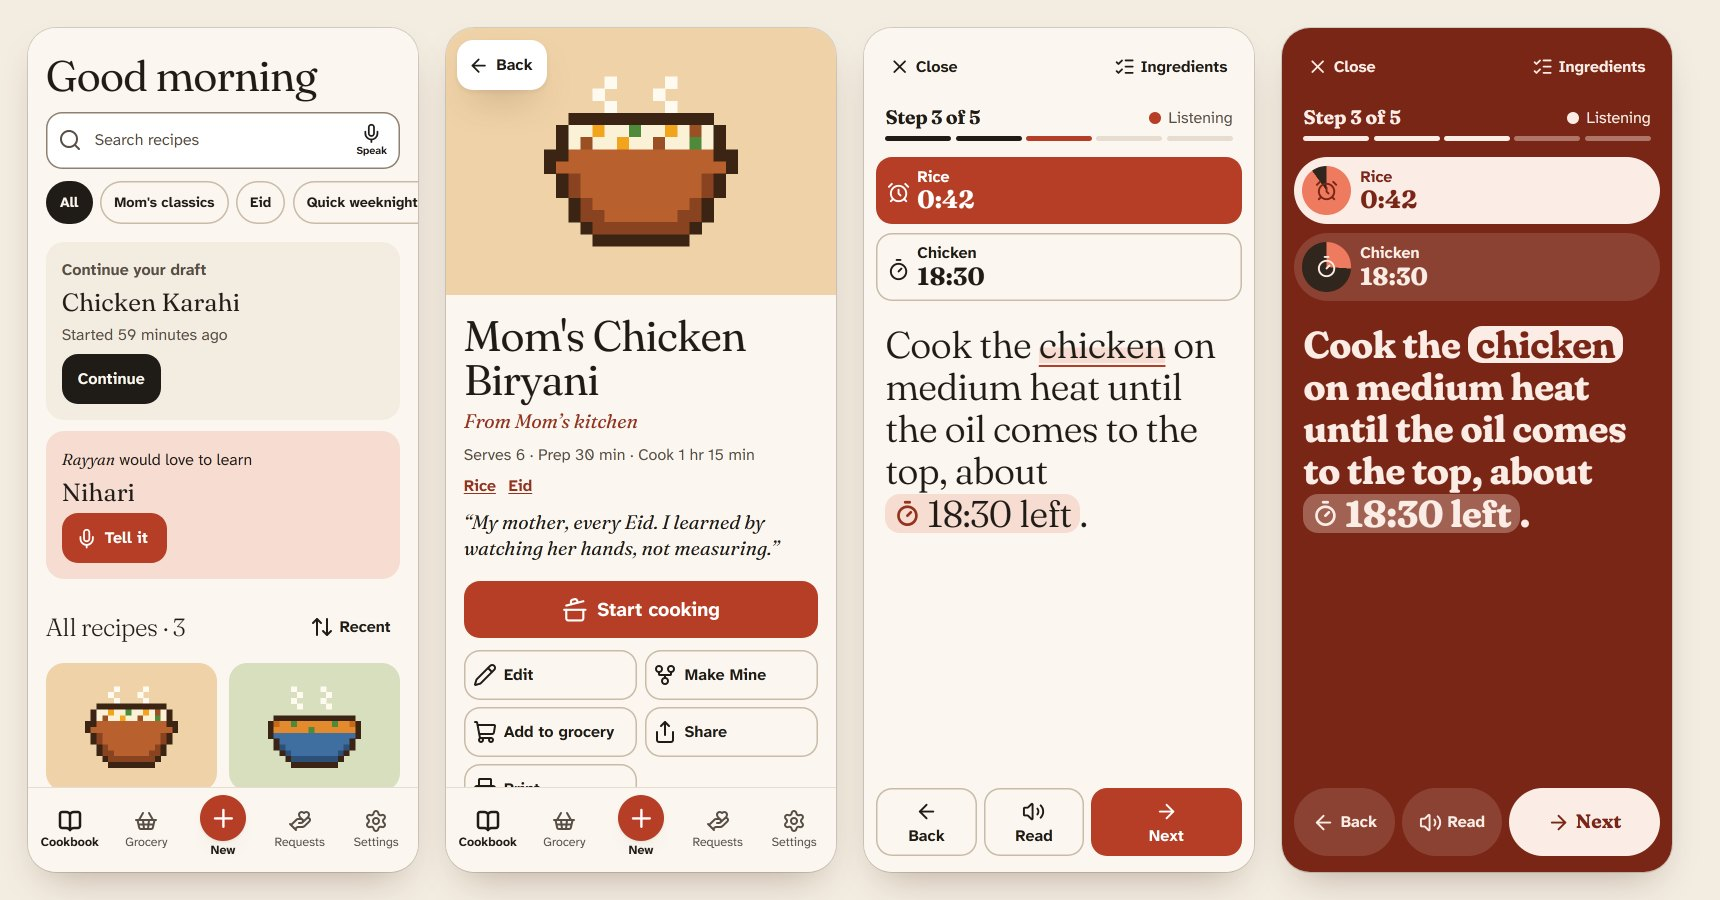
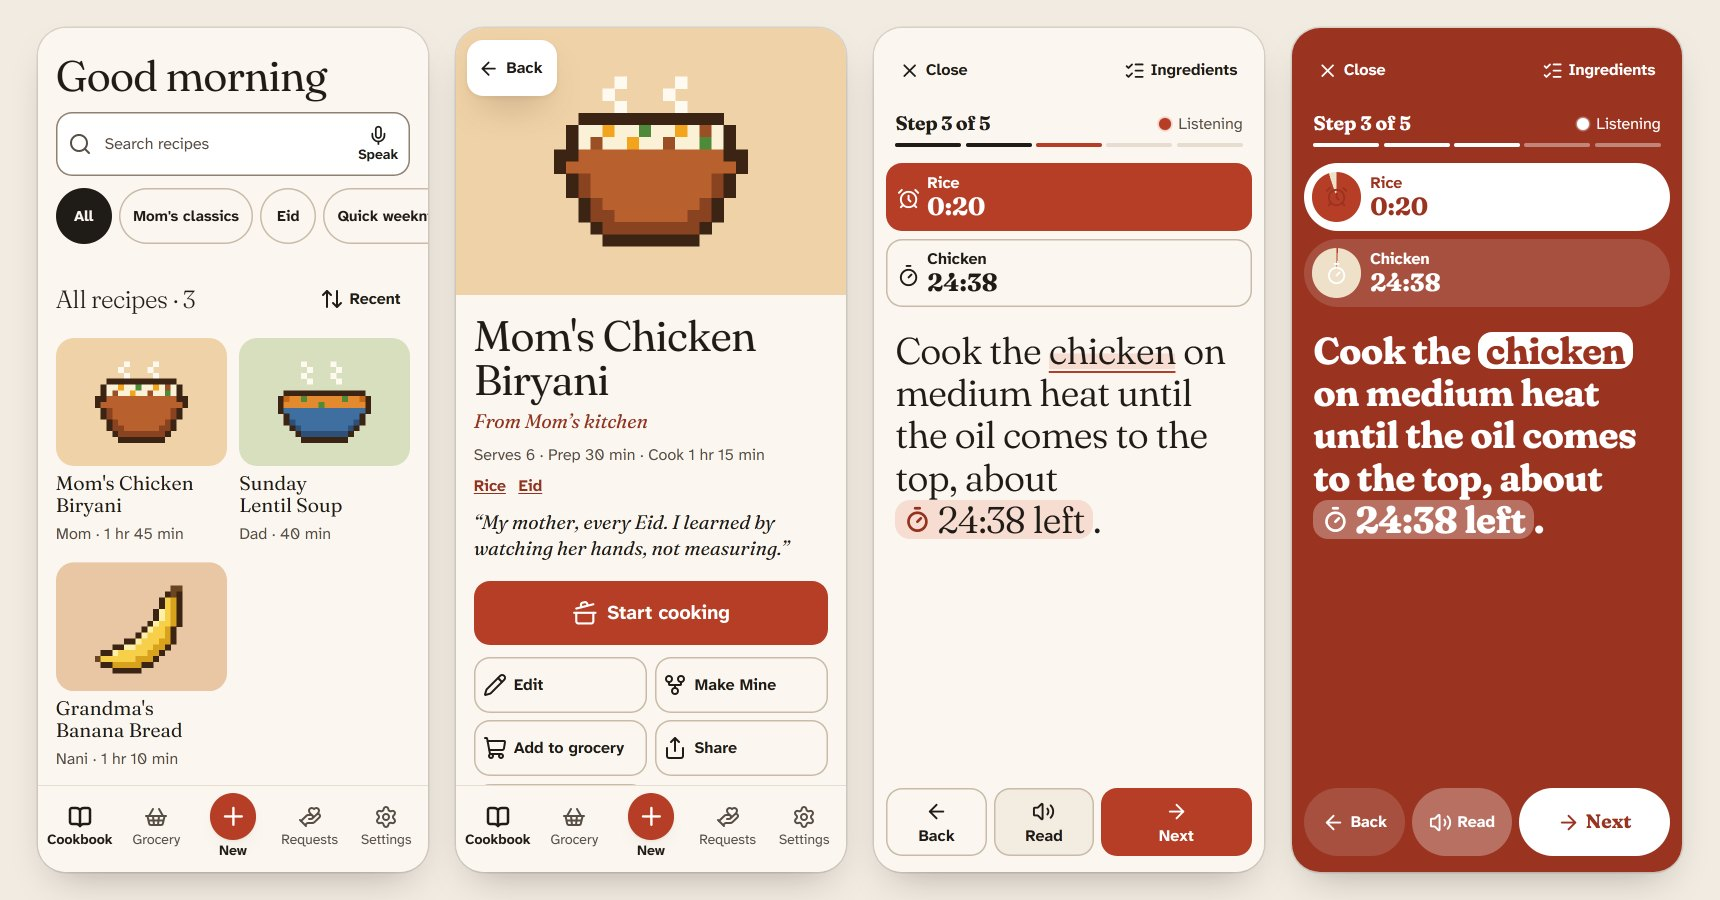
Refresh the README screenshots, add Tell it and cook mode GIFs, Lighthouse scores and a case-study outline

diff --git a/README.md b/README.md
@@ -9,7 +9,7 @@
 Save the recipes that only live in someone's head by saying them out loud,<br />
 then cook from them hands-free.
 
-[**Try it**](https://rvyyv-n.github.io/bookcook/) · [Roadmap](docs/roadmap.md) · [Design docs](docs/design/)
+[**Try it**](https://rvyyv-n.github.io/bookcook/) · [Roadmap](docs/roadmap.md) · [Design docs](docs/design/) · [Case study](docs/case-study.md)
 
 [![Check and deploy](https://github.com/rvyyv-n/bookcook/actions/workflows/deploy.yml/badge.svg)](https://github.com/rvyyv-n/bookcook/actions/workflows/deploy.yml)
 [![License: MIT](https://img.shields.io/badge/license-MIT-blue.svg)](LICENSE)
@@ -20,7 +20,7 @@ then cook from them hands-free.
 
 Bookcook is for the family cook who wears reading glasses and has busy hands: very large text, big targets, and voice for everything. Tell it a recipe the way you'd tell a friend, and it turns what you said into ingredients, steps and timers, keeping the story behind the dish in the teller's own voice.
 
-**[Open the app](https://rvyyv-n.github.io/bookcook/)** and tap _Try an example_ for three sample recipes. Install it from the browser menu to use it as an app, offline too. There's nothing to sign up for.
+**[Open the app](https://rvyyv-n.github.io/bookcook/)**, pick a text size on the welcome screen, and tap _Try an example_ for three sample recipes. Install it from the browser menu to use it as an app, offline too. There's nothing to sign up for.
 
 ## Contents
 
@@ -28,25 +28,35 @@ Bookcook is for the family cook who wears reading glasses and has busy hands: ve
 - [Privacy](#privacy)
 - [Browser support](#browser-support)
 - [How it's built](#how-its-built)
+- [Quality](#quality)
 - [Development](#development)
 - [Deployment](#deployment)
+- [Android app](#android-app)
 - [License](#license)
 
 ## Features
 
 ### Getting recipes in
 
+<img src="docs/images/tell-it.gif" alt="Tell it: a recipe told out loud. The name, whose it is and how many it feeds are answered, then each ingredient appears in the list as it's said" width="320" align="right" />
+
 - **Tell it.** A gentle interview, one question at a time: the name, whose recipe it is, how many it feeds, the ingredients, the steps, tips and the story behind it. Ingredients appear as you say them and durations become timers. Hands-free if you like.
 - **Just talk.** Talk while you cook; Bookcook sorts it into ingredients and steps for you to check, and keeps every word as "In her words".
 - **Type it, paste it or bring a link.** Type the way you'd say it (`2 cups basmati rice, washed`) with a live preview, paste messy text from WhatsApp or notes and have it tidied up, or import a recipe website's page.
 - **Check before saving.** Whichever way it came in, you check it on one screen, with anything the parser was unsure of marked. Drafts save as you go, and every text field has a Speak button.
 
+<br clear="right" />
+
 ### Cooking
+
+<img src="docs/images/cook-mode.gif" alt="Cook mode: stepping to the next step, starting its seven-minute timer from the step text, and the timer turning hot in its last minute" width="320" align="right" />
 
 - **Cook mode.** One step at a time, in type you can read from across the kitchen. Steps are read aloud, voice commands (next, back, repeat, timer, stop) move you along without touching the screen, and the screen stays awake.
 - **Timers.** Tap a duration in a step to start one. Several can run at once; a finished one chimes and speaks until you stop it, and they survive a reload.
 - **Ingredients that follow you.** Scale servings and switch metric or imperial, and every amount updates, including the one that pops up when you tap an ingredient in a step.
 - **I made it.** Rate it, note what to change next time, and add a photo to the cook log.
+
+<br clear="right" />
 
 ### Keeping and sharing
 
@@ -56,6 +66,7 @@ Bookcook is for the family cook who wears reading glasses and has busy hands: ve
 - **Share and back up.** Share a recipe as a link that adds it to someone else's cookbook. Back up everything, photos and voice notes included, to a `.bookcook` file, and restore it on any device.
 - **Print the family cookbook.** A cover, contents, one recipe per page and the stories behind them, on Letter or A4.
 - **Five looks.** Five skins, light and dark, two accents and three text sizes, up to Huge.
+- **A gentle start.** A three-step welcome sets the text size, shows what voice can do and asks for the microphone once, with plain help if it's blocked. It can be opened again from Settings.
 
 ![Cook mode on a tablet, with the ingredients pinned beside the step](docs/images/tablet.jpg)
 
@@ -80,7 +91,7 @@ Reading aloud works everywhere. Where voice input isn't available, Tell it and J
 
 ## How it's built
 
-React 19, TypeScript (strict), Vite, Tailwind CSS v4, React Aria Components and Dexie (IndexedDB), installable as a PWA. There's no AI and no paid service: a rule-based parser turns spoken and typed recipes into structured ones. It scores 100% on its tuned fixture corpus (`npm run parse:score`); the held-out set scored 72% before any tuning.
+React 19, TypeScript (strict), Vite, Tailwind CSS v4, React Aria Components and Dexie (IndexedDB), installable as a PWA. There's no AI and no paid service: a rule-based parser turns spoken and typed recipes into structured ones. It gets all 214 cases in its fixture corpus right (`npm run parse:score`), across typed, pasted and spoken ingredients, timers, voice commands and steps. The held-out set scored 72% before the parser was tuned on it.
 
 ```
 src/
@@ -111,6 +122,21 @@ scripts/        parser scoring, app icons, screenshot helper
 Tests sit next to the code they cover (`*.test.ts`).
 
 ![The desktop cookbook: sidebar, recipe list and the selected recipe](docs/images/desktop.jpg)
+
+## Quality
+
+**Accessibility.** Every screen is checked in all five skins, light and dark, at Normal and Huge text, on a phone and on a desktop, with an automated audit (axe) that finds no problems. Every target is at least 56px, every label at least 14px at Normal, and everything works from the keyboard with a visible focus ring. The full checklist is in [`ACCEPTANCE.md`](docs/design/ACCEPTANCE.md).
+
+**Lighthouse** on the live site (median of three runs, first visit):
+
+|         | Performance | Accessibility | Best practices | SEO |
+| ------- | ----------- | ------------- | -------------- | --- |
+| Mobile  | 75          | 100           | 100            | 100 |
+| Desktop | 98          | 100           | 100            | 100 |
+
+Mobile performance is held back by the first paint: the app is one script (315 KB compressed) that has to load before anything shows. Splitting it by screen is the next improvement.
+
+**Tests.** 170 unit tests (Vitest) cover the parser, the database, backups, share links and the platform wrappers.
 
 ### Design
 
@@ -159,7 +185,15 @@ On Windows, if `npm ci` fails with `EPERM ... lightningcss`, a running dev serve
 
 From a link needs its function (`functions/api/import.ts`) deployed beside the app, which GitHub Pages can't do: there, every link ends in "We couldn't read that page", and Paste it still works. On Cloudflare Pages the `functions/` folder is picked up as is. To use a function hosted elsewhere, build with `VITE_IMPORT_URL` set to its address.
 
-Still to come: an Android app, onboarding and a final polish, and the move to Cloudflare Pages. See the [roadmap](docs/roadmap.md).
+Still to come: the move to Cloudflare Pages, so From a link works on the live site. See the [roadmap](docs/roadmap.md).
+
+## Android app
+
+The same app also builds as an Android app with Capacitor, using Android's own speech recognition and voices. The [`Android APK`](.github/workflows/android.yml) workflow builds a debug APK on every push to `main`; download it from the workflow run's `bookcook-debug-apk` artifact. To build it locally you need a JDK and the Android SDK:
+
+```sh
+npm run android:build
+```
 
 ## License
 

diff --git a/docs/case-study.md b/docs/case-study.md
@@ -1,0 +1,69 @@
+# Bookcook: case study outline
+
+An outline to write up alongside a demo video. The facts from the build are filled in; the parts marked _To write_ need your own account of testing it with Mom and what changed.
+
+## 1. The problem
+
+- Family recipes often live only in one person's head, and they're lost when that person can no longer cook or tell them.
+- The people who hold them are mostly 55 to 75. Many wear reading glasses, cook with wet or busy hands, and don't want to type on a phone.
+- Recipe apps assume a written recipe to copy in, small text and a lot of tapping.
+- _To write:_ the moment this became personal: which recipe, and whose.
+
+## 2. Who it's for
+
+- The teller: says the recipe out loud, the way they'd tell a friend.
+- The learner: cooks from it, hands-free, reading from across the kitchen.
+- _To write:_ Mom, briefly: how she cooks, what she found hard with other apps.
+
+## 3. Constraints I set
+
+- **No backend and no accounts.** Everything stays on the device (IndexedDB); share and request links carry the recipe after the `#`.
+- **No AI and no paid services.** A rule-based parser turns speech and typing into ingredients, steps and timers.
+- **Voice and typing are equal.** Neither is a fallback; both feed one parser, one draft and one editor.
+- **Large and calm.** 16px body text at the smallest setting, 56px targets, three text sizes up to Huge, one primary button per screen.
+
+## 4. How it was made
+
+- A written plan and design brief, then a visual design handoff with five skins, tokens and an acceptance checklist.
+- Built in phases on branches, each reviewed before merging: parser, design system and library, typed entry, voice capture, cook mode, kitchen extras, safety and sharing, Android app, polish.
+- The parser was built test-first against a fixture corpus, with a held-out set that was scored before any tuning.
+
+## 5. Key decisions
+
+- **Tell it as an interview.** One question at a time, with "next" and "done", so each answer is short enough to parse and easy to check. Just talk is there for people who'd rather ramble.
+- **"Check this", never an error.** When the parser isn't sure, the line is kept as said and marked for a look.
+- **The teller's own words.** The story and any talk around the recipe are kept verbatim as "In her words".
+- **Cook mode built for distance.** One step at a time in the largest type in the app, voice commands, several timers that survive a reload, and the screen kept awake.
+- **Skins as tokens.** The same components wear five looks; a skin changes values, not layouts.
+
+## 6. Testing with Mom
+
+- _To write:_ the set-up (her phone or yours, which recipe, Tell it or Just talk).
+- _To write:_ what she did without help.
+- _To write:_ where she got stuck, in her words if you can.
+- _To write:_ what surprised you.
+
+## 7. What changed
+
+- _To write:_ the changes that came from watching her, before and after.
+- Changes made during the build's own review, for reference:
+  - A three-step welcome that sets the text size first and asks for the microphone with plain help if it's blocked.
+  - Every target raised to at least 56px and every label to at least 14px after the accessibility pass.
+  - Phone wording for a blocked microphone in the Android app, instead of browser steps.
+
+## 8. Results
+
+- Parser: 214 of 214 fixture cases; 72% on held-out text before tuning.
+- Lighthouse on the live site: Accessibility, Best practices and SEO 100 on mobile and desktop; Performance 98 on desktop and 75 on mobile.
+- An automated accessibility audit of every screen in every skin, light and dark, at Normal and Huge, finds no problems.
+- _To write:_ what Mom said at the end, and whether the recipe is now saved.
+
+## 9. What's next
+
+- Split the app's script by screen, to speed up the first visit on phones.
+- Move hosting to Cloudflare Pages so importing from a link works on the live site.
+- Later: meal planning, scanning printed recipes, optional family sync, more languages.
+
+## Demo video
+
+- _To write:_ link, and a shot list: Tell it a recipe, check it, cook from it hands-free with a timer, share it.

diff --git a/docs/roadmap.md b/docs/roadmap.md
@@ -98,7 +98,7 @@ The hero screen. Needs the speech layer, so it's built here rather than with voi
 - [x] A full accessibility pass: an automated audit of every screen in all five skins, light and dark, at Normal and Huge on a phone and at desktop width; every target is 56px and every label at least 14px at Normal; focus rings on settings rows, editor steps and menu options; the print page has its landmarks; the blocked-microphone help uses phone wording in the app. A screen reader was not tried by ear.
 - [x] A test deployment on GitHub Pages (`.github/workflows/deploy.yml`).
 - [ ] Deploy to Cloudflare Pages, which the From a link import function needs. The config and the `cloudflare` workflow job are in (`wrangler.toml`, `.github/workflows/deploy.yml`); it deploys once the `CLOUDFLARE_API_TOKEN` and `CLOUDFLARE_ACCOUNT_ID` repository secrets exist and a Pages project named `bookcook` has been created.
-- [ ] README with screenshots and GIFs, the parser accuracy figure and Lighthouse scores; the case-study outline.
+- [x] README with screenshots and GIFs, the parser accuracy figure and Lighthouse scores; the case-study outline (`docs/case-study.md`). Taken from the GitHub Pages build; retake the Lighthouse scores after the move to Cloudflare Pages.
 
 ## Later, not in this build
 
